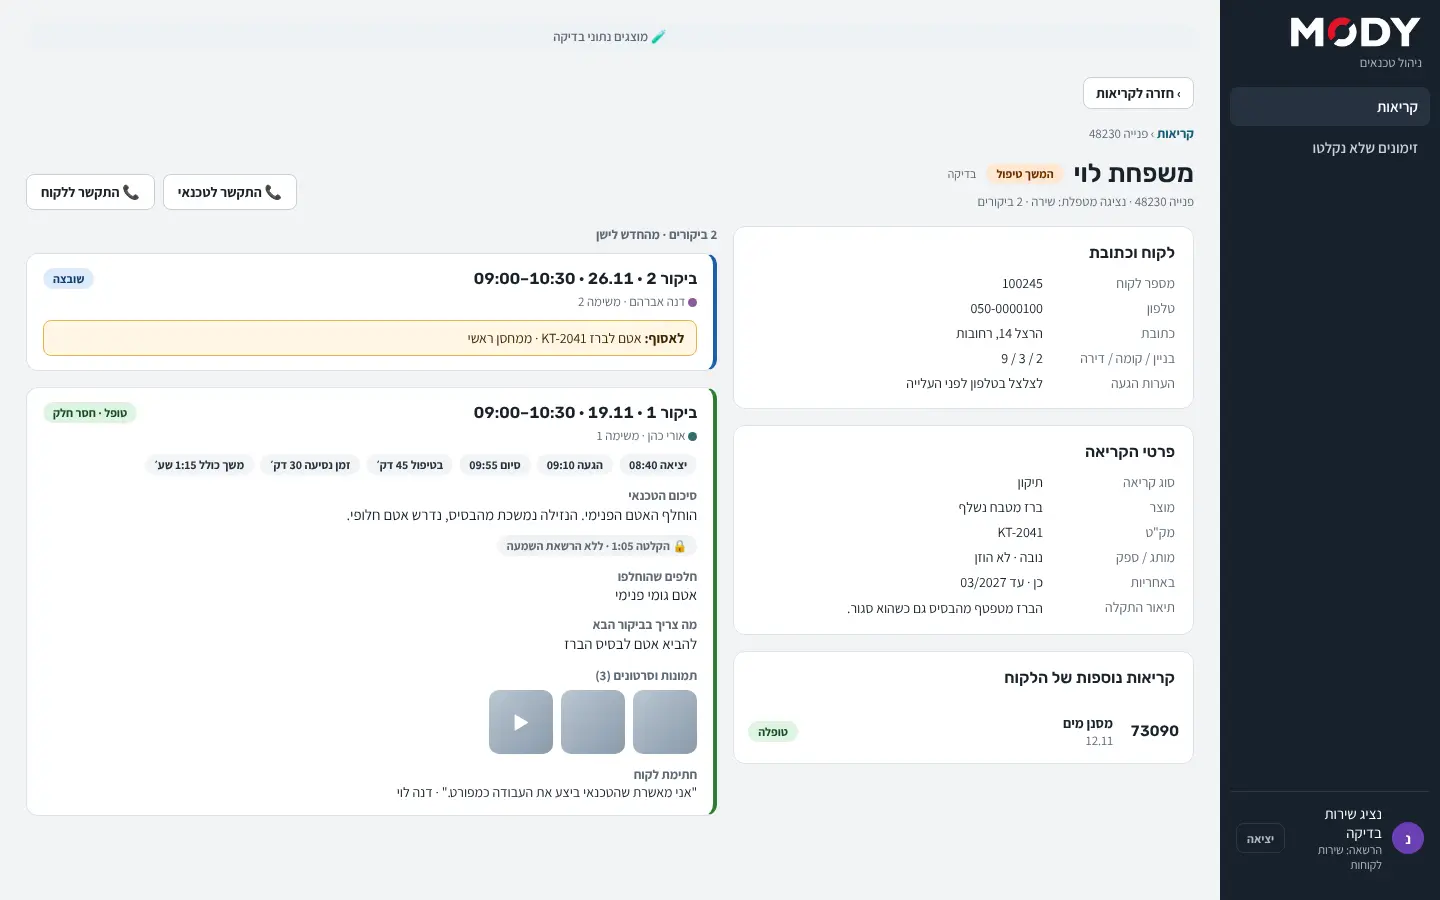
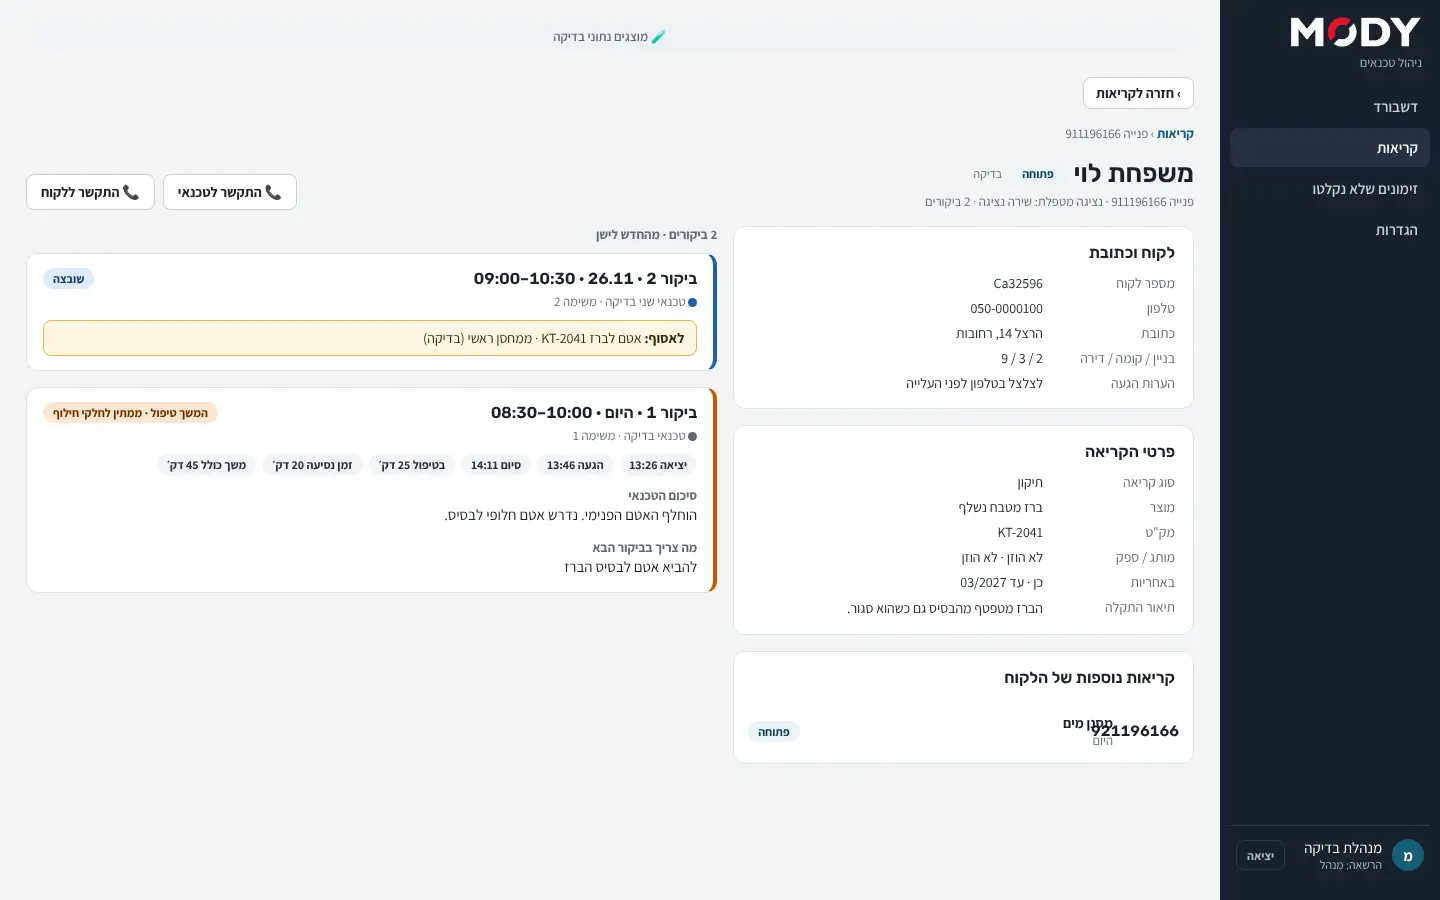
test(office-call-card): local-stack auth tests and unit tests; screenshots on real data at 390 and 1440
Manager/CS see the card; a Technician is denied and his session reads no call or field times;
with cal+calls off RLS hides the call (404), with card off the report is hidden. Other-calls
row no longer overflows long request numbers. Calls-list auth test follows the real card.

Claude-Session: https://claude.ai/code/session_011xmGFSYArFUjcD6VdGUhh6

diff --git a/tests/auth/office-call-card.spec.ts b/tests/auth/office-call-card.spec.ts
@@ -1,0 +1,274 @@
+import { randomUUID } from "node:crypto";
+import { execFileSync } from "node:child_process";
+import path from "node:path";
+import { expect, test, type Browser, type BrowserContext, type Page } from "@playwright/test";
+import type { SupabaseClient } from "@supabase/supabase-js";
+import { callCardOf } from "@/features/calls/supabase/card-queries";
+import { jerusalemTime } from "@/features/dashboards/data/time";
+import { addDays } from "@/features/calendar/data/dates";
+import { jerusalemToday } from "@/features/visits/data/today";
+import type { SeededUser } from "./global-setup";
+import { localSql, localSqlValue, seeded, submitSignIn } from "./helpers";
+import { attendeeOf, ensurePickupPlace, ingestVisit, signedInClient, type FictionalVisit } from "./tech-fixtures";
+
+// The office call card on real data (D60 (5), D68, D74, D88) against the LOCAL Supabase stack
+// (tests/auth/run-local.mjs; never the remote project). The calls and visits are made through the
+// single ingestion service under an office user's own session; visit 1 is departed, reached and
+// closed "המשך טיפול" by its technician through the real field writers (Migration 7) under his own
+// session, so the field times are the database's own (visit_time_current). Every record is
+// fictional and test-marked by the database (D47). The technicians' work phones are fictional
+// test values set as postgres (no writer in this step).
+//   node tests/auth/run-local.mjs [--with-creator] tests/auth/office-call-card.spec.ts
+// Screenshots on demand: SCREENSHOTS=1 node tests/auth/run-local.mjs tests/auth/office-call-card.spec.ts
+
+const OUT = path.resolve("docs/review/office-call-card");
+const run = Math.random().toString(16).slice(2, 8);
+const reqA = `91${String(Date.now()).slice(-7)}`;
+const reqB = `92${String(Date.now()).slice(-7)}`;
+const today = jerusalemToday();
+const customer = "משפחת לוי";
+const PHONE_TECH = "050-0000001";
+const PHONE_TECH2 = "050-0000002";
+const PLACE = "מחסן ראשי (בדיקה)";
+
+const base: Omit<FictionalVisit, "req"> = {
+  rep: "שירה נציגה",
+  customerNo: `C${run}`,
+  customer,
+  phone: "050-0000100",
+  city: "רחובות",
+  street: "הרצל 14",
+  building: "2",
+  floor: "3",
+  apt: "9",
+  arrival: "לצלצל בטלפון לפני העלייה",
+  product: "ברז מטבח נשלף",
+  sku: "KT-2041",
+  desc: "הברז מטפטף מהבסיס גם כשהוא סגור.",
+  warranty: "כן · עד 03/2027",
+};
+
+function creator(): SeededUser | null {
+  const raw = process.env.AUTH_E2E_CREATOR;
+  return raw ? (JSON.parse(raw) as SeededUser) : null;
+}
+
+async function signedIn(browser: Browser, user: SeededUser, home: RegExp, width = 1440): Promise<{ context: BrowserContext; page: Page }> {
+  const context = await browser.newContext({ locale: "he-IL", viewport: { width, height: width <= 600 ? 844 : 900 } });
+  const page = await context.newPage();
+  await submitSignIn(page, user.email, user.password);
+  await expect(page).toHaveURL(home);
+  return { context, page };
+}
+
+const device = (at: Date) => ({ p_reported_at: at.toISOString(), p_device_tz: "Asia/Jerusalem", p_device_utc_offset_min: 120, p_device_sent_at: new Date().toISOString() });
+
+/** Departs, arrives and closes "המשך טיפול" as the technician himself (Migration 7 writers). */
+async function workVisit(tech: SupabaseClient, visitId: string, departed: Date): Promise<void> {
+  const step = async (fn: string, args: Record<string, unknown>) => {
+    const { data, error } = await tech.rpc(fn, { p_visit_id: visitId, p_operation_id: randomUUID(), ...args });
+    expect(error, fn).toBeNull();
+    return (data as { out_field_version: number }[])[0]!.out_field_version;
+  };
+  const minutes = (m: number) => new Date(departed.getTime() + m * 60_000);
+  let fv = await step("depart_visit", { p_expected_field_version: 1, ...device(departed) });
+  fv = await step("arrive_visit", { p_expected_field_version: fv, ...device(minutes(20)) });
+  const { data: reasons } = await tech.from("followup_reasons").select("id").eq("is_active", true).order("sort_order").limit(1);
+  await step("close_visit", {
+    p_expected_field_version: fv,
+    p_outcome: "followup",
+    p_summary: "הוחלף האטם הפנימי. נדרש אטם חלופי לבסיס.",
+    p_signer_name: null,
+    p_ack_text_sha256: null,
+    p_signature_media_id: null,
+    p_followup_reason_id: (reasons as { id: string }[])[0]!.id,
+    p_next_visit_notes: "להביא אטם לבסיס הברז",
+    ...device(minutes(45)),
+  });
+}
+
+async function ready(page: Page) {
+  await page.evaluate(async () => {
+    const faces = ["500 16px Rubik", "600 16px Rubik", "700 16px Rubik", "400 16px Assistant", "600 16px Assistant", "700 16px Assistant"];
+    await Promise.all(faces.map((face) => document.fonts.load(face, "אבג")));
+    await document.fonts.ready;
+  });
+  await page.waitForLoadState("networkidle");
+}
+
+test.describe.serial("office call card on real data (local stack)", () => {
+  let departed = new Date();
+  let visit1 = "";
+
+  test.beforeAll(async () => {
+    test.setTimeout(120_000);
+    const users = seeded();
+    const office = await signedInClient(users.mgr.email, users.mgr.password);
+    const techRow = process.env.AUTH_E2E_TECH_ROW ?? "";
+    const tech2Row = process.env.AUTH_E2E_TECH2_ROW ?? "";
+    ensurePickupPlace(PLACE, "האורגים 1, חולון");
+    // Fictional work phones of the two seeded test technicians.
+    localSql(`update public.profiles set work_phone = '${PHONE_TECH}' where id = '${users.tech.id}';
+update public.profiles set work_phone = '${PHONE_TECH2}' where id = '${users.tech2.id}';`);
+    // Call B (older, resolved later or not: another call of the same customer).
+    await ingestVisit(office, await attendeeOf(office, tech2Row), addDays(today, -3), "12:00", "13:00", {
+      ...base,
+      req: reqB,
+      product: "מסנן מים",
+      sku: "WF-100",
+      desc: "המסנן לא מסנן.",
+    });
+    // Call A: visit 1 today (technician 1), worked and closed "המשך טיפול"; visit 2 next week (technician 2) with a pickup.
+    visit1 = await ingestVisit(office, await attendeeOf(office, techRow), today, "08:30", "10:00", { ...base, req: reqA, task: "1" });
+    await ingestVisit(office, await attendeeOf(office, tech2Row), addDays(today, 7), "09:00", "10:30", {
+      ...base,
+      req: reqA,
+      task: "2",
+      collect: "אטם לברז KT-2041",
+      collectFrom: PLACE,
+    });
+    const tech = await signedInClient(users.tech.email, users.tech.password);
+    departed = new Date(Math.floor((Date.now() - 60 * 60_000) / 60_000) * 60_000);
+    await workVisit(tech, visit1, departed);
+  });
+
+  test("Manager: the card with both visits, office-only times and durations, warranty, other calls and both call buttons", async ({ browser }) => {
+    const { context, page } = await signedIn(browser, seeded().mgr, /\/office$/);
+    const response = await page.goto(`/office/calls/${reqA}`);
+    expect(response?.status()).toBe(200);
+    await expect(page.getByRole("heading", { level: 1, name: customer })).toBeVisible();
+    // D74: one banner at the top and one quiet "בדיקה" by the title; nothing per field.
+    await expect(page.locator(".test-banner")).toHaveCount(1);
+    await expect(page.locator(".test-banner")).toContainText("נתוני בדיקה");
+    await expect(page.locator(".ptitle .test-mark")).toHaveCount(1);
+    await expect(page.locator(".ocd .test-mark")).toHaveCount(0);
+    await expect(page.getByText(`פנייה ${reqA} · נציגה מטפלת: שירה נציגה · 2 ביקורים`)).toBeVisible();
+
+    const v1 = page.locator("#visit-1");
+    await expect(v1).toContainText("המשך טיפול");
+    await expect(v1).toContainText("היום");
+    await expect(v1).toContainText(`יציאה ${jerusalemTime(departed.toISOString())}`);
+    await expect(v1).toContainText(`הגעה ${jerusalemTime(new Date(departed.getTime() + 20 * 60_000).toISOString())}`);
+    await expect(v1).toContainText(`סיום ${jerusalemTime(new Date(departed.getTime() + 45 * 60_000).toISOString())}`);
+    await expect(v1).toContainText("בטיפול 25 דק׳");
+    await expect(v1).toContainText("זמן נסיעה 20 דק׳");
+    await expect(v1).toContainText("משך כולל 45 דק׳");
+    await expect(v1).toContainText("הוחלף האטם הפנימי");
+    await expect(v1).toContainText("להביא אטם לבסיס הברז");
+    await expect(v1).toContainText("טכנאי בדיקה");
+
+    const v2 = page.locator("#visit-2");
+    await expect(v2).toContainText("שובצה");
+    await expect(v2).toContainText("טכנאי שני בדיקה");
+    await expect(v2).toContainText("לאסוף: אטם לברז KT-2041");
+    await expect(v2).not.toContainText("משך כולל");
+
+    await expect(page.locator(".ocd-info")).toContainText("כן · עד 03/2027");
+    await expect(page.locator(".ocd-info")).toContainText("הרצל 14, רחובות");
+    await expect(page.locator(".ocd-info")).toContainText("KT-2041");
+    const other = page.getByRole("link", { name: new RegExp(reqB) });
+    await expect(other).toHaveAttribute("href", `/office/calls/${reqB}`);
+    await expect(other).toContainText("מסנן מים");
+    // The latest visit's technician (technician 2), and the customer.
+    await expect(page.getByRole("link", { name: "התקשר לטכנאי" })).toHaveAttribute("href", "tel:0500000002");
+    await expect(page.getByRole("link", { name: "התקשר ללקוח" })).toHaveAttribute("href", "tel:0500000100");
+    // No cancellation and no assignment card (owner, 19.11).
+    await expect(page.getByRole("button", { name: /ביטול/ })).toHaveCount(0);
+
+    // Unknown and malformed numbers: the same 404.
+    for (const req of ["999999999", "NO-SUCH-1", "a%20b", "x".repeat(40)]) {
+      expect((await page.goto(`/office/calls/${req}`))?.status(), req).toBe(404);
+    }
+    await context.close();
+  });
+
+  test("Customer Service: the same card; no technician phone (profiles are not readable to the role), so no \"התקשר לטכנאי\"", async ({ browser }) => {
+    const { context, page } = await signedIn(browser, seeded().cs, /\/office\/calls$/);
+    await page.goto(`/office/calls/${reqA}`);
+    await expect(page.getByRole("heading", { level: 1, name: customer })).toBeVisible();
+    await expect(page.locator("#visit-1")).toContainText("משך כולל 45 דק׳");
+    await expect(page.locator("#visit-1")).toContainText("הוחלף האטם הפנימי");
+    await expect(page.getByRole("link", { name: "התקשר ללקוח" })).toBeVisible();
+    await expect(page.getByRole("link", { name: "התקשר לטכנאי" })).toHaveCount(0);
+    await context.close();
+  });
+
+  test("Technician: no call card (server-side denial), and RLS gives his session no call and no field times (D68)", async ({ browser }) => {
+    const users = seeded();
+    const { context, page } = await signedIn(browser, users.tech, /\/tech$/);
+    await page.goto(`/office/calls/${reqA}`);
+    await expect(page).toHaveURL(/\/login\?state=no-access$/);
+    await context.close();
+    // Even with an office role claimed in code, his own session reads nothing: the card is null.
+    const tech = await signedInClient(users.tech.email, users.tech.password);
+    expect(await callCardOf(tech, { role: "mgr" }, reqA)).toBeNull();
+    const times = await tech.from("visit_time_current").select("visit_id").eq("visit_id", visit1);
+    expect(times.error).toBeNull();
+    expect(times.data).toEqual([]);
+    // Anonymous: to /login.
+    const anonymous = await browser.newContext({ locale: "he-IL" });
+    const anon = await anonymous.newPage();
+    await anon.goto(`/office/calls/${reqA}`);
+    await expect(anon).toHaveURL(/\/login$/);
+    await anonymous.close();
+  });
+
+  test("test-data marking: the call, its visits and time reports are test-marked by the database (D47)", () => {
+    expect(localSqlValue(`select is_test::text || ' ' || data_source from public.service_calls where request_number = '${reqA}'`)).toBe("true simulator");
+    expect(localSqlValue(`select count(*) filter (where not v.is_test) from public.visits v join public.service_calls c on c.id = v.service_call_id where c.request_number = '${reqA}'`)).toBe("0");
+    expect(localSqlValue(`select count(*) || ' ' || count(*) filter (where is_test) from public.visit_time_reports where visit_id = '${visit1}'`)).toBe("3 3");
+  });
+
+  test.describe("with the Creator (matrix keys)", () => {
+    test.skip(!creator(), "needs the local Creator: node tests/auth/run-local.mjs --with-creator");
+
+    test("an office user whose role reads no calls (`cal` and `calls` off): RLS hides the call, the page is 404; `card` off hides the report", async ({ browser }) => {
+      const c = creator()!;
+      const db = await signedInClient(c.email, c.password);
+      const set = async (key: string, allowed: boolean) => {
+        const version = Number(localSqlValue(`select version from public.role_permissions where role = 'customer_service' and permission_key = '${key}'`));
+        const { error } = await db.rpc("admin_set_role_permission", {
+          p_role: "customer_service",
+          p_key: key,
+          p_allowed: allowed,
+          p_expected_version: version,
+          p_reason: "office call-card test (local stack)",
+        });
+        expect(error).toBeNull();
+      };
+      const users = seeded();
+      try {
+        await set("card", false);
+        const cs = await signedIn(browser, users.cs, /\/office\/calls$/);
+        await cs.page.goto(`/office/calls/${reqA}`);
+        await expect(cs.page.locator("#visit-1")).toContainText("משך כולל 45 דק׳");
+        await expect(cs.page.locator("#visit-1")).not.toContainText("הוחלף האטם הפנימי");
+        await set("cal", false);
+        await set("calls", false);
+        const client = await signedInClient(users.cs.email, users.cs.password);
+        expect(await callCardOf(client, { role: "cs" }, reqA)).toBeNull();
+        expect((await cs.page.goto(`/office/calls/${reqA}`))?.status()).toBe(404);
+        await cs.context.close();
+      } finally {
+        await set("card", true);
+        await set("cal", true);
+        await set("calls", true);
+      }
+    });
+  });
+
+  test("screenshots at 390 and 1440 (on demand)", async ({ browser }) => {
+    test.skip(!process.env.SCREENSHOTS, "screenshots are taken on demand only");
+    for (const width of [390, 1440]) {
+      const { context, page } = await signedIn(browser, seeded().mgr, /\/office$/, width);
+      await page.goto(`/office/calls/${reqA}`);
+      await expect(page.getByRole("heading", { level: 1, name: customer })).toBeVisible();
+      await ready(page);
+      const png = path.join(OUT, `${width}-call-card.png`);
+      await page.screenshot({ path: png, fullPage: true });
+      execFileSync("convert", [png, "-quality", "80", png.replace(/\.png$/, ".webp")]);
+      execFileSync("rm", [png]);
+      await context.close();
+    }
+  });
+});

diff --git a/tests/auth/office-calls-list.spec.ts b/tests/auth/office-calls-list.spec.ts
@@ -136,9 +136,9 @@ test.describe.serial("קריאות on real data (local stack)", () => {
     await page.goto(`/office/calls?q=${a}`);
     await rows(page).first().getByRole("link").click();
     await expect(page).toHaveURL(new RegExp(`/office/calls/${a}$`));
-    await expect(page.getByRole("heading", { level: 1 })).toBeVisible(); // the call card skeleton (D81): fictional data
-    await expect(page.getByText("נתוני בדיקה")).toBeVisible();
-    await page.getByRole("link", { name: "› חזרה לקריאות" }).click();
+    await expect(page.getByRole("heading", { level: 1 })).toHaveText(customerA); // the call card on real data (D88)
+    await expect(page.locator(".test-banner")).toContainText("נתוני בדיקה");
+    await page.getByRole("link", { name: "חזרה לקריאות" }).click();
     await expect(page).toHaveURL(/\/office\/calls$/);
     for (const req of ["NO-SUCH-1", "a%20b", "x".repeat(40)]) {
       const response = await page.goto(`/office/calls/${req}`);

diff --git a/components/office/CallDetail.tsx b/components/office/CallDetail.tsx
@@ -221,7 +221,8 @@ function CustomerCalls({ rows }: { rows: readonly CustomerCallRow[] }) {
       </div>
       {rows.map((r) => (
         <Link key={r.req} href={r.href} className="li">
-          <span className="t num" style={{ width: 56 }}>
+          {/* Request numbers run to 32 characters: never a fixed width that they overflow. */}
+          <span className="t num" style={{ minWidth: 56, flex: "none", whiteSpace: "nowrap" }}>
             {r.req}
           </span>
           <span style={{ flex: 1, minWidth: 0 }}>
